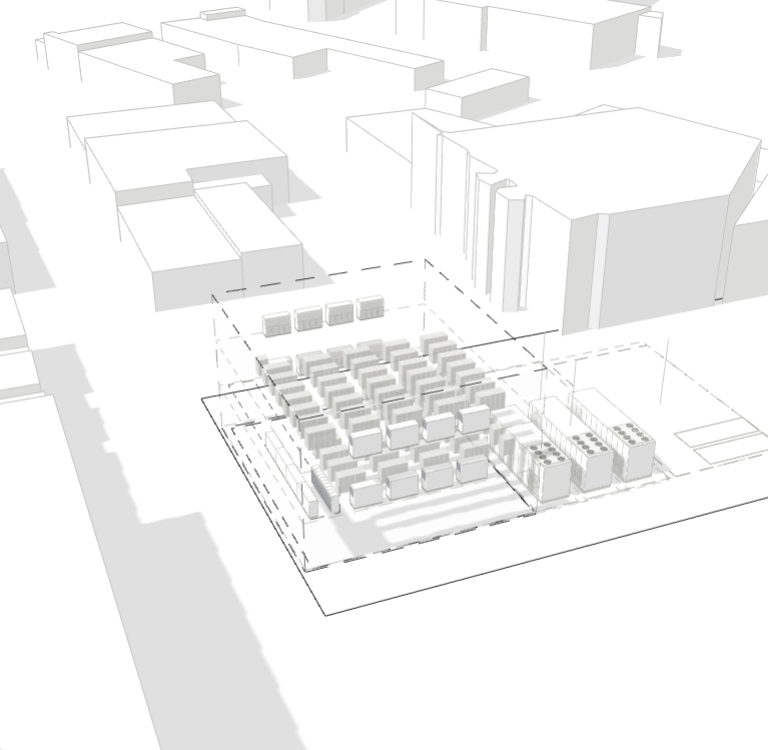
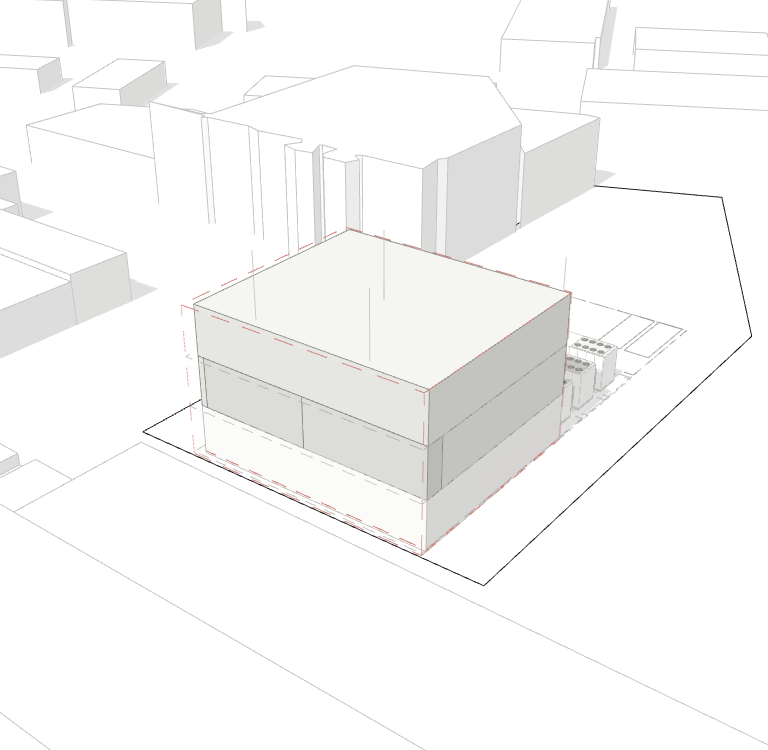
Landing: plain massing, no 3-D kit (J.B. 12 Nov 2026: the kit only on the Engineering template, the landing included). Hero and Engineering row images re-rendered from the tool's 3-D view of 339 1st Ave E in massing mode (checks/tests/landing_capture.js); hero caption and alt text say massing, cooli

diff --git a/checks/tests/landing_capture.js b/checks/tests/landing_capture.js
@@ -1,0 +1,30 @@
+// Landing images (12 Nov 2026, J.B.: plain massing on the landing; the 3-D kit only on the Engineering template): 339 1st Ave E in the tool's 3-D view,
+// massing mode, lot line in ink, rendered at 768 x 750. Used: land_hero_b.png -> tool/f1/img/hero.png, land_engineering.png -> tool/f1/img/engineering.png.
+// Usage (from checks/tests/, tool on :8766): NODE_PATH=<node_modules> node landing_capture.js <out dir>
+const fs = require('fs'), path = require('path'); const NM = (process.env.NODE_PATH || '').split(path.delimiter)[0];
+const { chromium } = require('playwright');
+(async () => { const out = process.argv[2]; const b = await chromium.launch({ args: ['--use-gl=swiftshader', '--enable-webgl'] });
+  const p = await b.newPage({ viewport: { width: 1440, height: 900 } }); const errs = []; p.on('pageerror', e => errs.push(e.message));
+  const local = (re, file, type) => p.route(re, r => r.fulfill({ body: fs.readFileSync(path.join(NM, file)), contentType: type }));
+  await local(/three\.min\.js/, 'three/build/three.min.js', 'application/javascript'); await local(/OrbitControls\.js/, 'three/examples/js/controls/OrbitControls.js', 'application/javascript');
+  await p.route(/flow\.js/, async r => { const rs = await r.fetch(); let t = await rs.text(); t = t.replace('const EXAMPLES=[', 'const EXAMPLES=window.__EX=[').replace('async function runExample(i){', 'window.__run=runExample; async function runExample(i){'); r.fulfill({ response: rs, body: t }); });
+  await p.addInitScript(() => { try { localStorage.setItem('bd-tier', 'full'); } catch (e) {} });
+  await p.goto('http://localhost:8766/index.html?nointro&x=' + Date.now()); await p.waitForTimeout(6000);
+  await p.evaluate(x => { window.__EX.push(x); const w = document.getElementById('welcome'); if (w) w.remove(); const f = document.getElementById('f1'); if (f) f.remove(); window.__run(window.__EX.length - 1); }, { lab: '339 1st Ave E', sub: '', sel: { city: 'van', tile: '1_1', id: '63819485' }, ans: { built: 'new', extent: 'whole', floor: '' } });
+  await p.waitForTimeout(10000);
+  const tabs = await p.evaluate(() => [...document.querySelectorAll('[data-tab]')].map(x => x.dataset.tab).join(','));
+  console.log('tabs', tabs);
+  await p.evaluate(() => { const x = document.querySelector('[data-tab="fits"]'); if (x) x.click(); }); await p.waitForTimeout(8000);
+  const st = await p.evaluate(() => ({ open: BD.scene3d && BD.scene3d.isOpen(), dv: BD.S.dcView, dvBtns: [...document.querySelectorAll('[data-dv]')].map(x => x.dataset.dv) }));
+  console.log(JSON.stringify(st));
+  await p.evaluate(() => { const x = document.querySelector('[data-dv="massing"]'); if (x) x.click(); }); await p.waitForTimeout(2500);
+  for (const [nm, rot, k] of [['hero', 0, 2.4], ['engineering', -0.6, 2.2], ['hero_b', 0.5, 2.5]]) { const url = await p.evaluate(([rot, k]) => { const T = THREE, R = BD.scene3d.rig(), c = R.cam, st = BD.scene3d.state();
+      const box = new T.Box3().setFromObject(st.massG || R.scene), ctr = box.getCenter(new T.Vector3()), sz = box.getSize(new T.Vector3()).length();
+      const d = c.position.clone().sub(R.ctl.target).normalize().applyAxisAngle(new T.Vector3(0, 1, 0), rot);
+      const keep = [c.position.clone(), R.ctl.target.clone()]; const lc = st.lotL && st.lotL.material ? st.lotL.material.color.getHex() : null; if (lc != null) st.lotL.material.color.setHex(0x1F2022);
+      c.position.copy(ctr.clone().add(d.multiplyScalar(sz * k))); c.lookAt(ctr); R.ren.setSize(768, 750, false); c.aspect = 768 / 750; c.updateProjectionMatrix(); R.ren.render(R.scene, c);
+      const u = R.ren.domElement.toDataURL('image/png'); c.position.copy(keep[0]); R.ctl.target.copy(keep[1]); if (lc != null) st.lotL.material.color.setHex(lc); return u; }, [rot, k]);
+    fs.writeFileSync(path.join(out, 'land_' + nm + '.png'), Buffer.from(url.split(',')[1], 'base64')); }
+  for (const dv of []) { await p.evaluate(dv => { const x = document.querySelector(`[data-dv="${dv}"]`); if (x) x.click(); }, dv); await p.waitForTimeout(3000);
+    await p.screenshot({ path: path.join(out, `cap_${dv}.png`) }); }
+  console.log('errs', errs.slice(0, 3)); await b.close(); })();

diff --git a/tool/f1eng_a.js b/tool/f1eng_a.js
@@ -109,7 +109,7 @@ C.add(T,'What fits',{async build(x){
     lead:`Servers are only part of what has to fit. The size shown is the largest where the building, the cooling plant, the generators and the loading all fit${meas?' '+meas:''}.`,
     hero:[{v:fm!=null?n1(fm):C.q(),u:fm!=null?' MW':'',l:'largest size that fits'},{v:n1(tested),u:' MW',l:'size tested here'}],
     rows:[['Largest that fits',fm!=null?`${n1(fm)} MW of servers${fp&&fp.asIs!=null&&fp.asIs<fm?`; ${n1(fp.asIs)} MW without the plant room`:''}`:'none with these choices'],
-      ...(BD.hallNote?[['Hall density',esc(BD.hallNote().t)],[esc(BD.denseLine().lab),esc(BD.denseLine().mw!=null&&BD.denseLine().mw>=0.05?'about '+n1(BD.denseLine().mw)+' MW'+(BD.hallNote().kind==='air'?' (shown, not the default)':''):'none fits')]]:[]),
+      ...(BD.hallNote?(()=>{ const dl=BD.denseLine(), hn=BD.hallNote(); return [['Hall density',esc(hn.t)],[esc(dl.lab),esc(dl.mw!=null&&dl.mw>=0.05?'about '+n1(dl.mw)+' MW'+(hn.kind==='air'?' (shown, not the default)':''):'none fits')]]; })():[]),   /* one size search for the line (12 Nov 2026: was three) */
       ...(hall?[['Racks needed',`${n0(hall.need[0])}–${n0(hall.need[1])} at ${n1(hall.mw)} MW (8–7.1 kW a rack); the tool’s rack layout ${hall.ok?'places them':'places only '+n0(hall.placed)+' (?)'} on ${hall.floors} hall floor${hall.floors>1?'s':''} of ${n0(hall.floor)} m², about ${n1(hall.floor/hall.need[1])}–${n1(hall.floor/hall.need[0])} m² a rack (our arithmetic)`]]:[]),
       ...(stopTxt?[['Why it stops',esc(stopTxt)]]:[]),['Building',`${n0(M.footArea)} m² footprint, ${M.nF[0]===M.nF[1]?M.nF[0]:M.nF[0]+'–'+M.nF[1]} storeys, ${n1(M.H)} m`],['Cooling plant',cool],['Generators',M.plant&&M.plant.s&&M.plant.s.g?`${M.plant.s.gN} sets of ${n1(M.plant.s.g.mw)} MW, ${A.genAt||'yard'}`:'none']],
     more:[['How the size is found',`<p>The tool tries sizes from 0.1 MW up to the most the floor holds and keeps the largest where its set-up checks pass: building height, loading, plant and generators placed, fuel on site, noise, and a floor test for the hall, UPS and battery rooms (site.js fitMax).</p>`],['Warnings at this size',`<p>${(M.warn||[]).length?esc(M.warn.join(' ')):'none'}</p>`]],

diff --git a/tool/f1.js b/tool/f1.js
@@ -38,7 +38,7 @@ function landing(){ let L=document.getElementById('f1'); if(L) L.remove(); L=doc
    <section class="f1-hero"><div><h1>What could a data centre give the city around it?</h1>
      <p class="f1-lead">Test real lots in Vancouver and Edmonton: what a data centre could share with its neighbours, and what stands in the way.</p>
      <div class="f1-acts"><button class="f1-btn" data-go="work">Choose a template</button><button class="f1-link" data-go="logic">How it works</button><button class="f1-link quiet" data-go="intro">Watch the intro</button></div></div>
-    <figure class="f1-heroimg"><img src="f1/img/hero.png" alt="339 1st Ave E, Vancouver, in the tool's 3-D view: the data centre's equipment and its yard among the neighbouring buildings"><figcaption class="f1-cap">339 1st Ave E, Vancouver. The tool's 3-D view: a data centre's equipment and plant yard among its neighbours.</figcaption></figure></section>
+    <figure class="f1-heroimg"><img src="f1/img/hero.png" alt="339 1st Ave E, Vancouver, in the tool's 3-D view: the data centre's massing, cooling plant and generators among the neighbouring buildings"><figcaption class="f1-cap">339 1st Ave E, Vancouver. The tool's 3-D view: a data centre's massing, cooling plant and generators among its neighbours.</figcaption></figure></section>
    <div class="f1-lines"><p>Vancouver and Edmonton, built to the same depth.</p><p>Four templates, each a workflow that ends in its own report.</p><p>Every figure has a source, or a “?” where it doesn’t yet.</p><p>Trade-offs, not verdicts. Code limits block; options are flagged.</p></div>
    <section id="f1-work"><div class="f1-sechead"><h2>Templates</h2><span>Each template’s workflow shows one idea per card, then makes a report.</span></div>
     ${TPL.map(t=>`<div class="f1-row"><h3>${t.name}</h3><div><p class="who">${esc(t.who)}</p><div class="ract"><button class="f1-btn" data-start="${t.id}"${t.tier?'':' disabled'}>Start</button><button class="f1-link" data-see="${t.id}">See the workflow</button><button class="f1-link" data-logic="${t.tab}">Logic diagram →</button></div>${t.tier?'':'<div class="note">Start opens when the Municipal cards are built.</div>'}</div>
